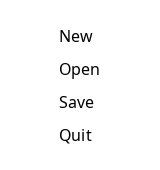
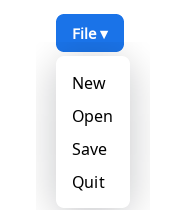
feat(widgets): Menu is a menu, FilePicker previews, and cursors say what is draggable
Three reported gaps, one shared cause — widgets had no way to declare a pointer
shape from Rust.

**Cursors (#11).** `cursor` was reachable only from a `.lss` rule, so every
built-in widget — none of which ships a stylesheet — had no way to say "this
edge is draggable". `Element::cursor(shape)` adds the Rust side (a `.lss` rule
still wins), and `CursorShape` gains `ColResize`/`RowResize`, mapped through
winit and parsed from `col-resize`/`ew-resize`/`row-resize`/`ns-resize`.
`PaneGrid`'s divider now shows a resize cursor and widens 4 px → 6 px, so the
grab target is findable at all. While the mechanism was going in: a hand over
buttons and an I-beam over text fields, the two affordances users read without
thinking.

**Menu (#9).** `Menu::new` renders a permanently-open list, which reads as a
column of buttons — the user's words were "it should be a button that spawns an
overlay with those choices". `Menu::button(cx, name, label, items, on_select)`
is that: a trigger plus a floating panel that closes on a choice, a click away,
or Escape. `Menu::new` stays as the panel, for embedding in a `Popover` or a
sidebar, and its doc now says which is which.

**FilePicker (#8).** A picker that reports only a path gives the user no way to
tell whether they picked the right file. `.preview(cx, max_side)` reads the
bytes on the blocking pool (keyed on the path, so changing the selection
refetches while the old preview stays up), decodes through `asset::decode`
[…]

diff --git a/crates/lumen-widgets/src/file_picker.rs b/crates/lumen-widgets/src/file_picker.rs
@@ -31,6 +31,7 @@ use lumen_layout::Dim;
 /// drifts from that committed image, so the picture is always current.
 pub struct FilePicker {
     el: Element,
+    name: String,
 }
 
 impl FilePicker {
@@ -56,8 +57,77 @@ impl FilePicker {
         });
         el = el.class("file-picker");
         el.style.min_width = Dim::px(120.0);
-        FilePicker { el }
+        FilePicker {
+            el,
+            name: name.to_string(),
+        }
     }
+}
+
+impl FilePicker {
+    /// Show the chosen file beneath the button, scaled to fit `max_side`.
+    ///
+    /// A picker that reports only a path leaves the user with no way to tell
+    /// whether they picked the right file. The bytes are read on the blocking
+    /// pool (keyed on the path, so changing the selection refetches and the
+    /// previous preview stays up meanwhile) and decoded through
+    /// [`crate::asset::decode`], which caches — so a rebuild does not re-decode.
+    ///
+    /// Non-images and unreadable files render the reason instead of the picture;
+    /// the picker never becomes a silent no-op.
+    pub fn preview(mut self, cx: &BuildCx, max_side: f64) -> FilePicker {
+        let path = cx
+            .signal(format!("{}.path", self.name), String::new)
+            .get(cx.runtime());
+        if path.is_empty() {
+            return self;
+        }
+        let bytes = cx.resource_blocking(
+            &format!("{}.bytes", self.name),
+            path.clone(),
+            |p: String| std::fs::read(&p).map_err(|e| e.to_string()),
+        );
+
+        let shown = match (&bytes.value, &bytes.error) {
+            (Some(b), _) => match crate::asset::decode(b) {
+                Ok(img) => {
+                    let (w, h) = (img.width() as f64, img.height() as f64);
+                    // Fit inside the box without distorting: scale by the
+                    // longer side, never up past the image's own size.
+                    let k = (max_side / w.max(h)).min(1.0);
+                    let mut e: Element = crate::Image::new(img).into();
+                    e.style.width = Dim::px((w * k) as f32);
+                    e.style.height = Dim::px((h * k) as f32);
+                    e
+                }
+                Err(e) => note(format!("not an image Lumen can decode: {e}")),
+            },
+            (None, Some(e)) => note(format!("could not read {path}: {e}")),
+            (None, None) => note("loading…"),
+        };
+
+        let caption = note(
+            std::path::Path::new(&path)
+                .file_name()
+                .map(|f| f.to_string_lossy().into_owned())
+                .unwrap_or_else(|| path.clone()),
+        );
+        let mut col = widgets::column(vec![self.el, shown, caption]);
+        col.style.row_gap = Dim::px(8.0);
+        col.style.align_items = Some(lumen_layout::Align::Center);
+        self.el = col;
+        self
+    }
+}
+
+/// A small muted caption line.
+fn note(s: impl Into<String>) -> Element {
+    let mut e = widgets::text(s.into());
+    if let Some(ts) = e.text_style_mut() {
+        ts.font_size = 12.0;
+        ts.color = lumen_core::Color::srgb8(0x6b, 0x74, 0x88, 0xff);
+    }
+    e
 }
 
 impl_common!(FilePicker);

diff --git a/crates/lumen-widgets/src/overlay.rs b/crates/lumen-widgets/src/overlay.rs
@@ -217,13 +217,15 @@ pub fn tooltip(cx: &BuildCx, name: &str, target: Element, text: impl Into<crate:
 ///
 /// ```
 /// # use lumen_widgets::App;
-/// use lumen_widgets::{centered, Menu, BuildCx, Element};
+/// use lumen_widgets::{top, Menu, BuildCx, Element};
 ///
 /// fn build(cx: &mut BuildCx) -> Element {
-///     centered(cx, Menu::new(&["New", "Open", "Save", "Quit"]).into())
+///     let menu = Menu::button(cx, "file", "File ▾", &["New", "Open", "Save", "Quit"], |_, _| {});
+///     top(cx, menu.into())
 /// }
 /// # let app = App::new(build);
-/// # lumen_widgets::doc_shot(app, 160.0, 170.0, "menu");
+/// # // Rendered with the panel open (`file.open`).
+/// # lumen_widgets::doc_shot_open(app, 180.0, 210.0, "menu", "file.open");
 /// ```
 ///
 /// Renders:
@@ -242,7 +244,11 @@ pub struct Menu {
 type SelectHandler = Rc<dyn Fn(&Runtime, usize)>;
 
 impl Menu {
-    /// A vertical menu of selectable items.
+    /// A vertical menu of selectable items, always shown.
+    ///
+    /// This is the *panel*, not the menu: it renders inline wherever you put
+    /// it. For the ordinary thing — a button that opens the panel over the
+    /// page and closes on a choice or a click away — use [`Menu::button`].
     ///
     /// Attach [`Menu::on_select`] to react to a choice — without it the items
     /// are inert. (They still carry `Role::MenuItem` + a label, so the menu
@@ -261,6 +267,36 @@ impl Menu {
             ..Element::default()
         };
         Menu { el, items }
+    }
+
+    /// A menu *button*: `label` opens a floating panel of `items` over the
+    /// page; choosing one runs `on_select` and closes it, and so does a click
+    /// away or Escape. Open state is `{name}.open`.
+    ///
+    /// This is what "menu" means everywhere else — [`Menu::new`] on its own is
+    /// a permanently-open list, which reads as a column of buttons rather than
+    /// as a menu.
+    pub fn button(
+        cx: &BuildCx,
+        name: &str,
+        label: impl Into<crate::Text>,
+        items: &[&str],
+        on_select: impl Fn(&Runtime, usize) + 'static,
+    ) -> crate::Popover {
+        let open = cx.signal(format!("{name}.open"), || false);
+        let panel: Element = Menu::new(items)
+            .on_select(move |rt, i| {
+                on_select(rt, i);
+                // A menu closes on choice — leaving it open is how a
+                // permanently-open list behaves, not a menu.
+                open.set(rt, false);
+            })
+            .id(format!("{name}-panel"))
+            .into();
+        let trigger: Element = crate::Button::new(label)
+            .id(format!("{name}-trigger"))
+            .into();
+        crate::Popover::new(cx, name, trigger, panel).id(name)
     }
 
     /// One menu item. `on` is the shared select handler; with `None` the item

diff --git a/examples/widget_showcase/src/catalog.rs b/examples/widget_showcase/src/catalog.rs
@@ -709,11 +709,12 @@ fn d_time_picker(cx: &mut BuildCx) -> Element {
 fn d_file_picker(cx: &mut BuildCx) -> Element {
     stack(vec![
         FilePicker::new(cx, "fp-doc", "Choose an image…", ["png", "jpg", "webp"])
+            .preview(cx, 260.0)
             .id("fp-doc")
             .into(),
         note(
             "Queues a SystemRequest::OpenFile on the host mailbox; the shell opens the native \
-             dialog and replies into fp.doc.path.",
+             dialog, replies into fp-doc.path, and the picker shows what you chose.",
         ),
     ])
 }
@@ -771,11 +772,15 @@ fn d_select(cx: &mut BuildCx) -> Element {
 fn d_menu(cx: &mut BuildCx) -> Element {
     let last = cx.signal("menu-last", || -1i64);
     stack(vec![
-        Menu::new(&["New file", "Open…", "Save", "Save as…", "Quit"])
-            .on_select(move |rt, i| last.set(rt, i as i64))
-            .id("menu-file")
-            .into(),
-        note("A flat list of commands; on_select gets the chosen index."),
+        note("Click File — the panel floats over the page and closes on a choice or a click away."),
+        Menu::button(
+            cx,
+            "menu-file",
+            "File ▾",
+            &["New file", "Open…", "Save", "Save as…", "Quit"],
+            move |rt, i| last.set(rt, i as i64),
+        )
+        .into(),
     ])
 }
 
@@ -2011,9 +2016,9 @@ static CHOICE: &[Entry] = &[
     entry!(
         "Menu",
         "menu",
-        Center,
+        Top,
         d_menu,
-        "A flat list of commands.",
+        "A button that opens a floating command list.",
         s_menu
     ),
 ];

diff --git a/crates/lumen-app/src/app.rs b/crates/lumen-app/src/app.rs
@@ -712,6 +712,8 @@ struct NodeMeta {
     clip: bool,
     overlay: bool,
     shadow: Option<crate::element::Shadow>,
+    /// Rust-side pointer shape (a `.lss` `cursor` rule overrides it).
+    cursor: Option<lumen_core::CursorShape>,
     /// Typed inline style (B.6b) — retained so the A.5 restyle path can
     /// re-merge it after re-resolving sheet rules.
     css_inline: Option<Box<lumen_style::Style>>,
@@ -2008,7 +2010,13 @@ impl<R: lumen_render::Renderer, E: lumen_core::tasks::Spawner, P: PlatformConfig
     pub fn cursor_shape(&self) -> Option<lumen_core::CursorShape> {
         let mut node = self.hovered_node()?;
         loop {
-            if let Some(c) = self.node_style.get(&node).and_then(|s| s.cursor) {
+            // `.lss` wins; the element's own shape is the widget's default.
+            if let Some(c) = self
+                .node_style
+                .get(&node)
+                .and_then(|s| s.cursor)
+                .or_else(|| self.meta.get(&node).and_then(|m| m.cursor))
+            {
                 return Some(c);
             }
             let parent = self.tree.parent(node);
@@ -5834,6 +5842,7 @@ impl<R: lumen_render::Renderer, E: lumen_core::tasks::Spawner, P: PlatformConfig
                 clip: el.clip,
                 overlay: el.overlay,
                 shadow: el.shadow,
+                cursor: el.cursor,
                 css_inline: el.css_inline.take(),
                 content: el.content,
                 pad,

diff --git a/crates/lumen-app/src/element.rs b/crates/lumen-app/src/element.rs
@@ -236,6 +236,12 @@ pub struct Element {
     pub container: bool,
     /// Optional drop shadow behind the box.
     pub shadow: Option<Shadow>,
+    /// Pointer shape while this node is hovered, as a Rust-side default.
+    ///
+    /// `cursor` was reachable only from `.lss`, so a widget that ships no
+    /// stylesheet — every built-in one — had no way to say "this edge is
+    /// draggable". A `.lss` `cursor` rule still wins over this.
+    pub cursor: Option<lumen_core::CursorShape>,
     /// Typed inline `.lss` mirror (B.6b, 04 §8): the `Origin::Inline` tier —
     /// beats stylesheet declarations unless they are `!important`. Set with
     /// [`css`](Self::css). Boxed: most elements carry none.
@@ -310,6 +316,7 @@ impl Default for Element {
             overlay: false,
             container: false,
             shadow: None,
+            cursor: None,
             css_inline: None,
             scope_deps: None,
             scope_key: None,
@@ -590,6 +597,12 @@ impl Element {
         self.dyn_classes = Some(d);
         self
     }
+    /// Set the pointer shape shown while this node is hovered.
+    pub fn cursor(mut self, c: lumen_core::CursorShape) -> Self {
+        self.cursor = Some(c);
+        self
+    }
+
     /// Set a uniform border (`width` logical px, `color`).
     pub fn border(mut self, color: Color, width: f64) -> Self {
         self.border = Some(lumen_render::Border { width, color });

diff --git a/crates/lumen-widgets/src/panes.rs b/crates/lumen-widgets/src/panes.rs
@@ -163,8 +163,11 @@ impl PaneGrid {
             let divider = Element {
                 role: Role::Generic,
                 background: Some(Color::srgb8(0x88, 0x8c, 0x90, 0xff)),
+                // The only cue that this edge is draggable. A 4 px strip with
+                // an arrow cursor is indistinguishable from decoration.
+                cursor: Some(lumen_core::CursorShape::ColResize),
                 style: LayoutStyle {
-                    width: Dim::px(4.0),
+                    width: Dim::px(6.0),
                     height: Dim::pct(1.0),
                     ..LayoutStyle::default()
                 },

diff --git a/crates/lumen-core/src/lib.rs b/crates/lumen-core/src/lib.rs
@@ -56,6 +56,12 @@ pub enum CursorShape {
     Crosshair,
     /// Move/grab.
     Move,
+    /// Resize a vertical edge — the shape for a pane divider or a column
+    /// boundary. Without it, "you can drag this" is discoverable only by
+    /// trying, which is precisely the affordance a cursor exists to give.
+    ColResize,
+    /// Resize a horizontal edge (a row boundary).
+    RowResize,
     /// The action is not allowed here.
     NotAllowed,
     /// Explicitly hidden.

diff --git a/crates/lumen-style/src/style.rs b/crates/lumen-style/src/style.rs
@@ -1701,6 +1701,8 @@ fn as_cursor(v: &Value) -> Option<lumen_core::CursorShape> {
             "wait" | "progress" => Some(C::Wait),
             "crosshair" => Some(C::Crosshair),
             "move" | "grab" | "grabbing" => Some(C::Move),
+            "col-resize" | "ew-resize" => Some(C::ColResize),
+            "row-resize" | "ns-resize" => Some(C::RowResize),
             "not-allowed" => Some(C::NotAllowed),
             "none" => Some(C::None),
             _ => None,

diff --git a/crates/lumen-widgets/src/button.rs b/crates/lumen-widgets/src/button.rs
@@ -47,6 +47,9 @@ impl Button {
             dyn_text,
             actions: vec![Action::Click, Action::Focus],
             focusable: true,
+            // A hand over anything clickable: the affordance users read
+            // without thinking.
+            cursor: Some(lumen_core::CursorShape::Pointer),
             background: Some(Color::srgb8(0x1a, 0x73, 0xe8, 0xff)),
             corner_radius: 8.0,
             style: LayoutStyle {

diff --git a/crates/lumen-widgets/src/text_field.rs b/crates/lumen-widgets/src/text_field.rs
@@ -58,6 +58,8 @@ impl TextField {
         let el = Element {
             role: Role::TextInput,
             focusable: true,
+            // An I-beam over anything typeable.
+            cursor: Some(lumen_core::CursorShape::Text),
             label: text.clone(),
             value: Some(text.clone()),
             actions: vec![Action::Focus, Action::SetValue],

diff --git a/crates/lumen-widgets/src/text_input.rs b/crates/lumen-widgets/src/text_input.rs
@@ -68,6 +68,8 @@ impl TextInput {
         let el = Element {
             role: Role::TextInput,
             focusable: true,
+            // An I-beam over anything typeable.
+            cursor: Some(lumen_core::CursorShape::Text),
             label: text.clone(),
             value: Some(text.clone()),
             actions: vec![Action::Focus, Action::SetValue],

diff --git a/crates/lumen-shell/src/lib.rs b/crates/lumen-shell/src/lib.rs
@@ -1481,6 +1481,8 @@ fn winit_cursor(shape: lumen_core::CursorShape) -> winit::window::CursorIcon {
         C::Wait => W::Wait,
         C::Crosshair => W::Crosshair,
         C::Move => W::Move,
+        C::ColResize => W::ColResize,
+        C::RowResize => W::RowResize,
         C::NotAllowed => W::NotAllowed,
     }
 }
